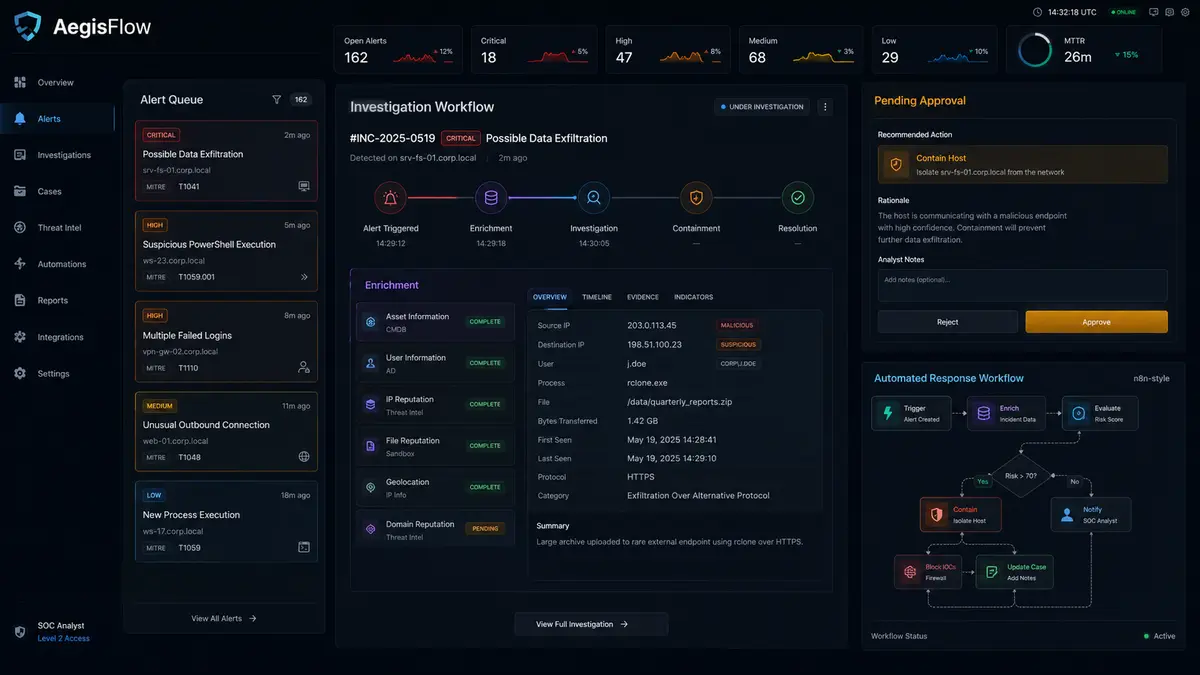
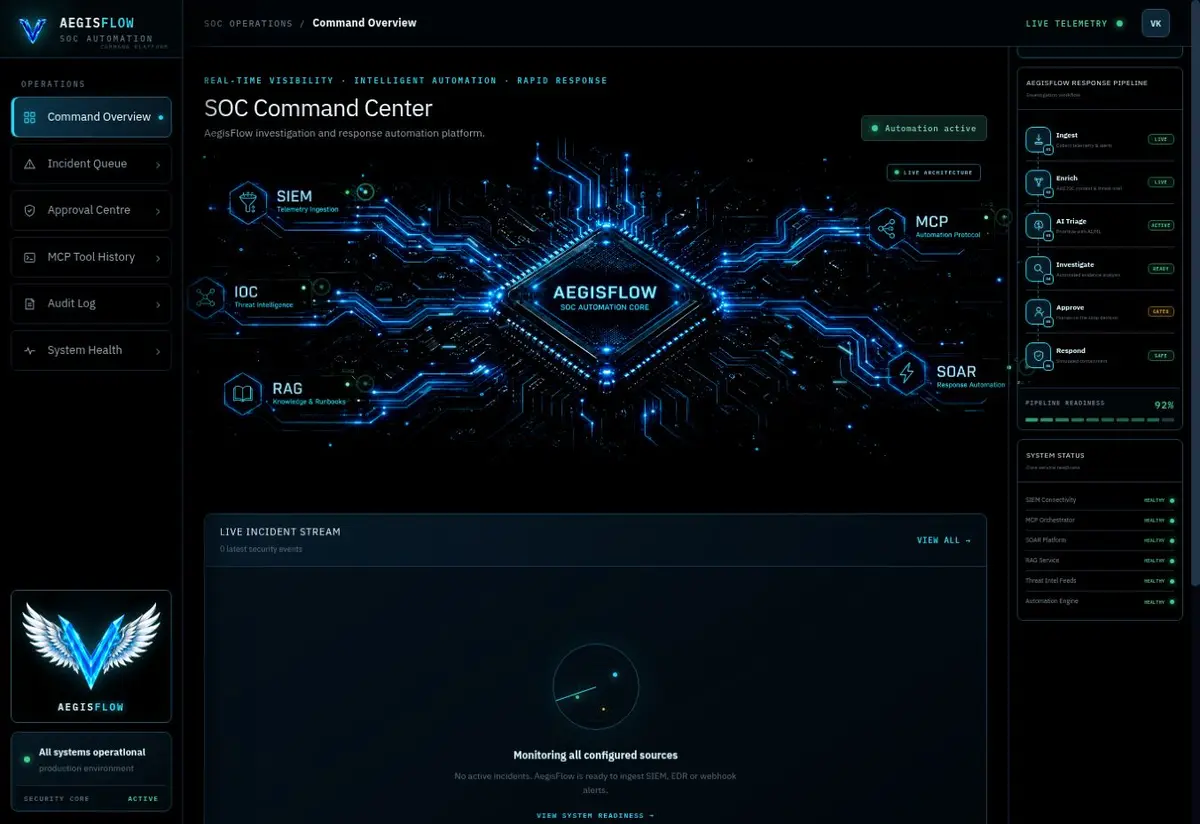
Feature live AegisFlow in software projects

diff --git a/src/data/portfolioData.js b/src/data/portfolioData.js
@@ -64,6 +64,17 @@ export const coreCompetencies = [
 
 export const projects = [
   {
+    id: 'aegisflow',
+    name: 'AegisFlow',
+    tagline: 'Live Full-Stack SOC Automation Platform',
+    tech: ['React', 'TypeScript', 'FastAPI', 'Groq API', 'MCP', 'RAG', 'n8n', 'Vercel'],
+    description:
+      'Built and deployed a full-stack SOC platform with alert ingestion, threat-intelligence enrichment, AI triage, RAG-assisted investigation, MCP security tools, human approval workflows, simulated response, automated tests, and a modern live command center.',
+    github: 'https://github.com/vasanth-void-0x/AegisFlow-SOC-Automation',
+    live: 'https://aegisflow-soc-automation.vercel.app/',
+    image: '/projects/aegisflow.webp',
+  },
+  {
     id: 'private-media',
     name: 'V-PrivateMedia',
     tagline: 'Full-Stack Private Messaging & File-Sharing Platform',
@@ -92,16 +103,6 @@ export const projects = [
       'Created and deployed a full-stack web application with interactive dashboards, prompt testing, approval workflows, audit views, API validation, role-based permissions, rate limiting, automated tests, and an edge-hosted database.',
     github: 'https://github.com/vasanth-void-0x/AgentShield---AI-Gateway',
     live: 'https://agent-shield.iamvasanth2k4.workers.dev/',
-  },
-  {
-    id: 'aegisflow',
-    name: 'AegisFlow',
-    tagline: 'React & FastAPI Investigation Workflow Platform',
-    tech: ['React', 'TypeScript', 'Vite', 'FastAPI', 'REST API', 'SQLAlchemy', 'n8n', 'Docker'],
-    description:
-      'Engineered a multi-page React dashboard and FastAPI backend for alert ingestion, investigation timelines, API-driven enrichment, human approval workflows, automation orchestration, testing, and containerized deployment.',
-    github: 'https://github.com/vasanth-void-0x/AegisFlow-SOC-Automation',
-    image: '/projects/aegisflow.webp',
   },
   {
     id: 'itrap',
